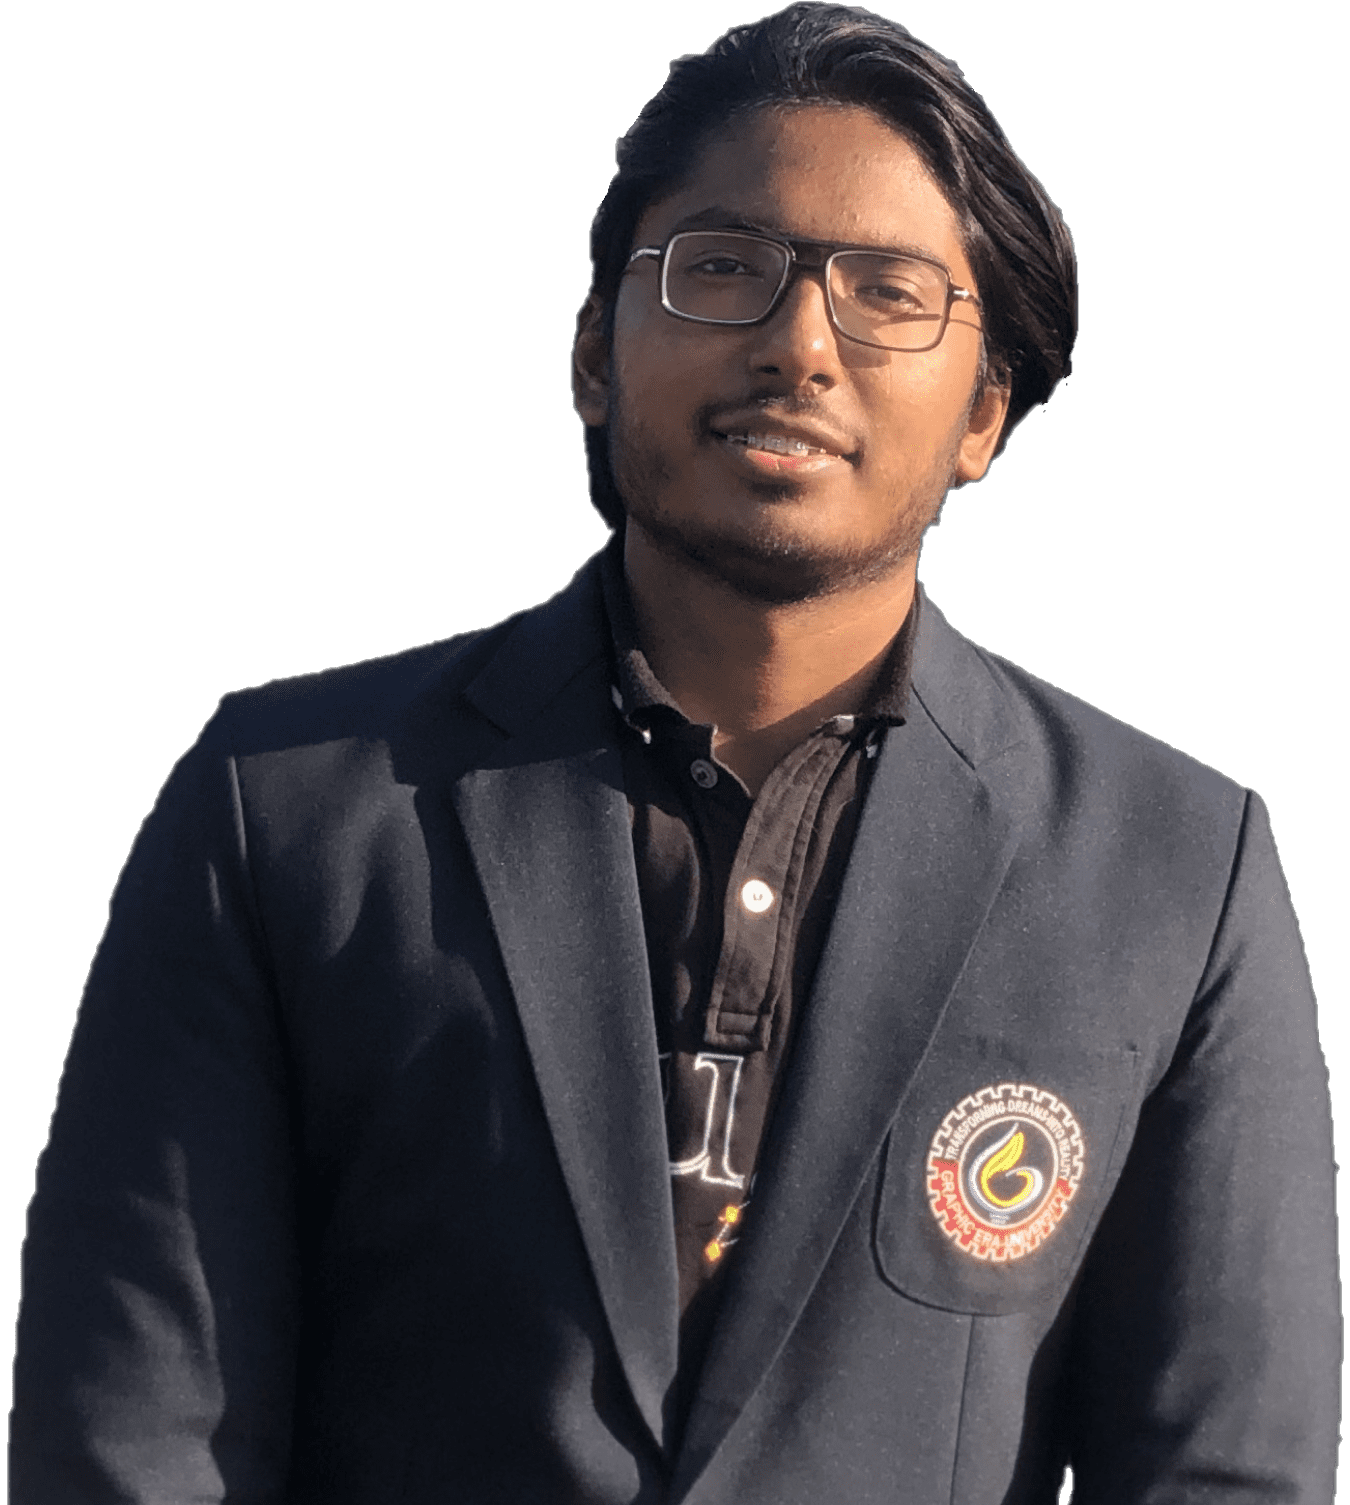
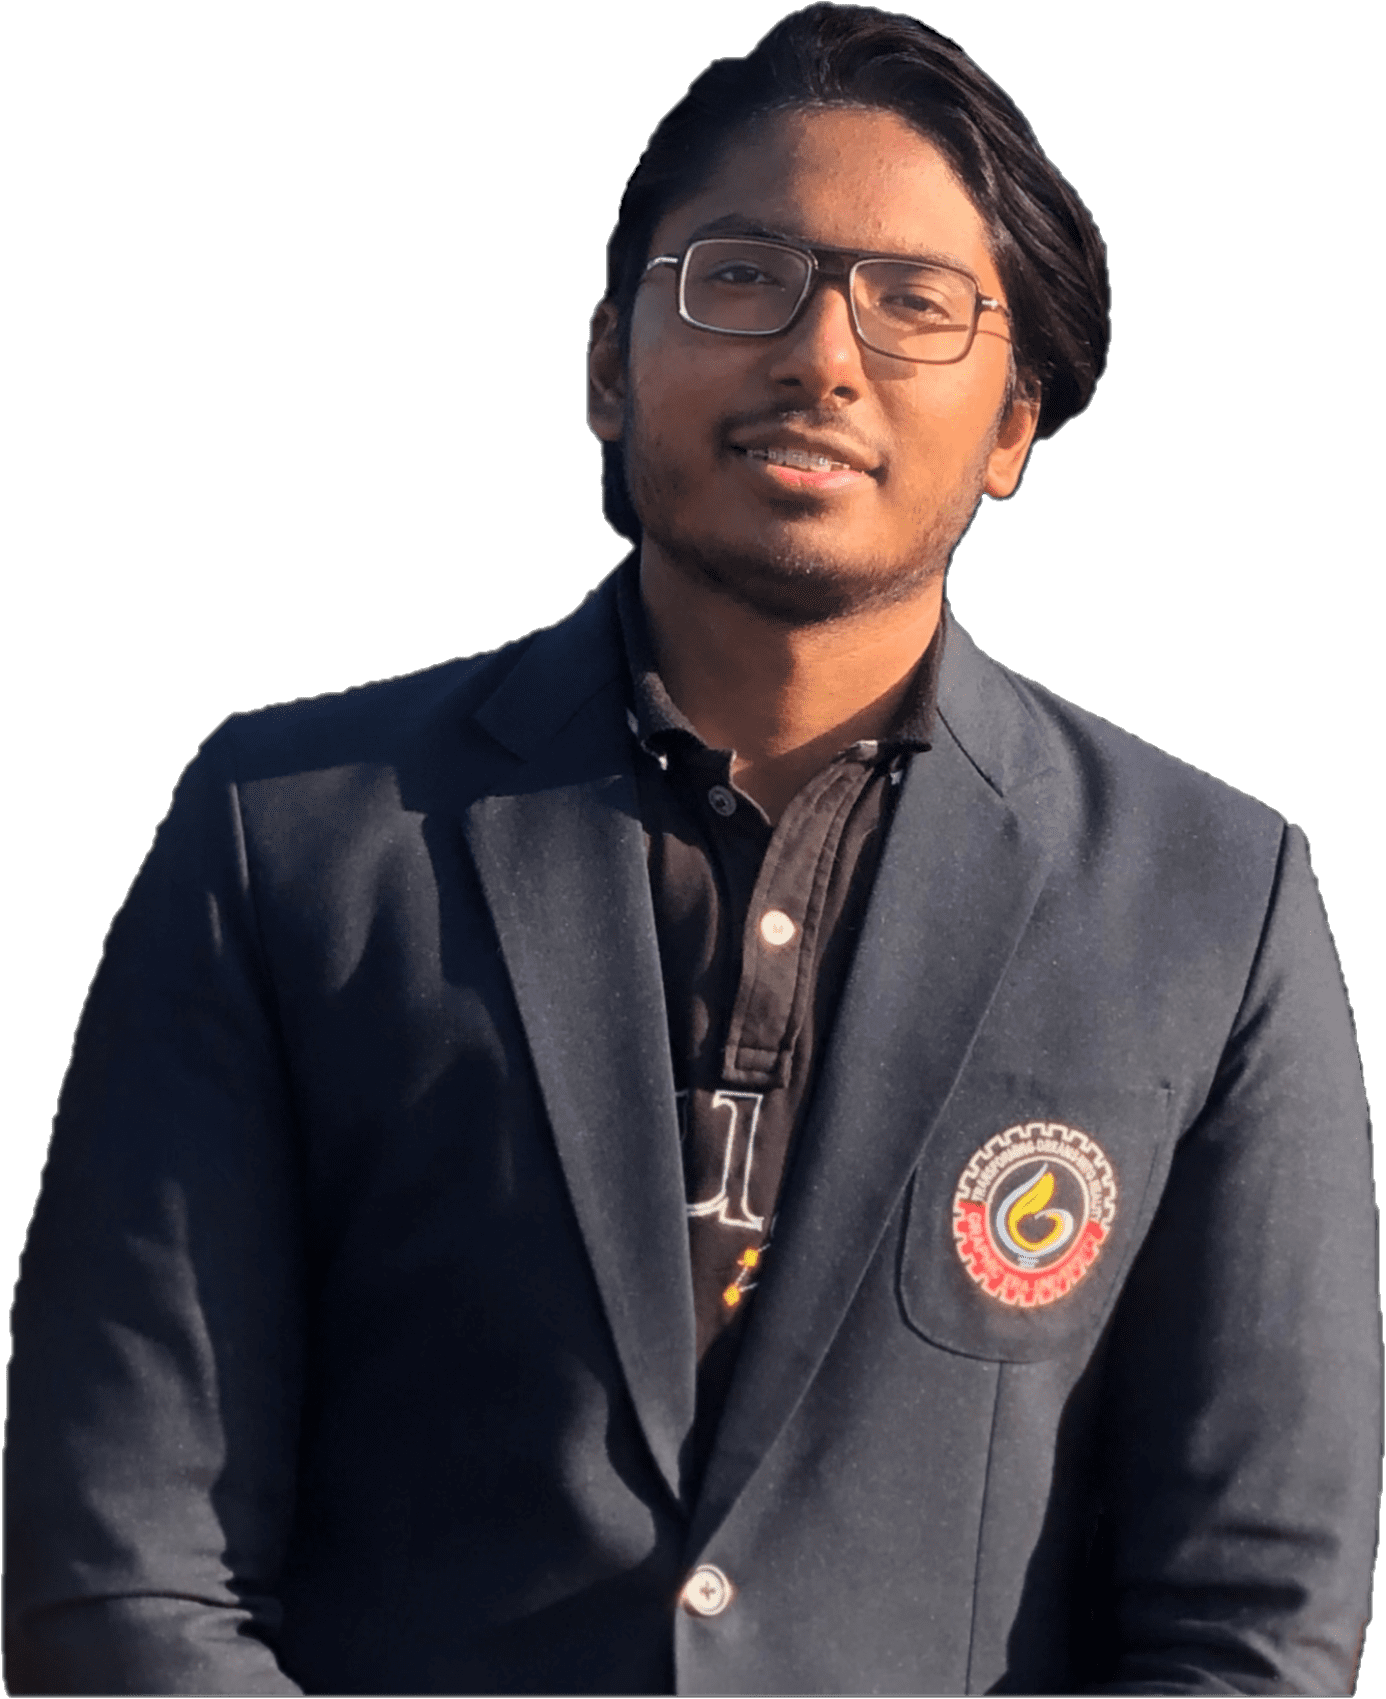
better photo

diff --git a/flutter_service_worker.js b/flutter_service_worker.js
@@ -4,7 +4,7 @@ const TEMP = 'flutter-temp-cache';
 const CACHE_NAME = 'flutter-app-cache';
 const RESOURCES = {
   "assets/AssetManifest.json": "c56a3cf0b3106cb11db16273d4ca8982",
-"assets/assets/images/dp.png": "70e9e92cc2b400be213a0fc9060c5ec5",
+"assets/assets/images/dp.png": "05017eb935f0f8ccd9127dba7d223604",
 "assets/assets/images/email.png": "5eb3c4b86aafbee72b8c471b29413a50",
 "assets/assets/images/mappin.png": "9cc090022ae31337336d2024160714b8",
 "assets/assets/images/phone.png": "45903a1ffa9ede882171aca9f71c4c29",
@@ -43,8 +43,8 @@ const RESOURCES = {
 "icons/Icon-512.png": "96e752610906ba2a93c65f8abe1645f1",
 "icons/Icon-maskable-192.png": "c457ef57daa1d16f64b27b786ec2ea3c",
 "icons/Icon-maskable-512.png": "301a7604d45b3e739efc881eb04896ea",
-"index.html": "579d8988b67efbca3e9040cb5c41befb",
-"/": "579d8988b67efbca3e9040cb5c41befb",
+"index.html": "b96c97c82ed66df24a2afc271e6f4643",
+"/": "b96c97c82ed66df24a2afc271e6f4643",
 "main.dart.js": "9159cbda6ae24b6c725a050cdd16a059",
 "manifest.json": "e74af8957b5899dc6da961caee768ec9",
 "version.json": "009c9e65172e010890f7f65fde438006"

diff --git a/index.html b/index.html
@@ -37,7 +37,7 @@
        application. For more information, see:
        https://developers.google.com/web/fundamentals/primers/service-workers -->
   <script>
-    var serviceWorkerVersion = '3851146963';
+    var serviceWorkerVersion = '223229642';
     var scriptLoaded = false;
     function loadMainDartJs() {
       if (scriptLoaded) {
